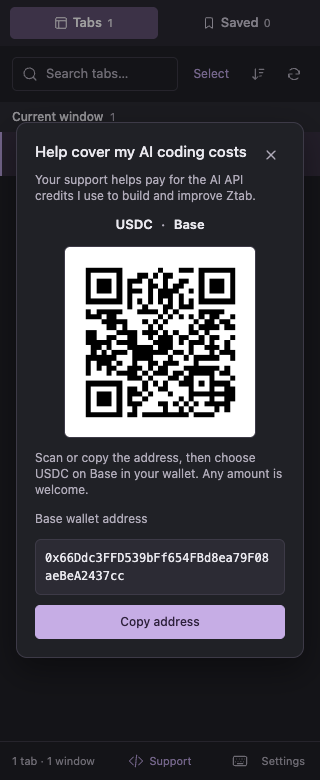
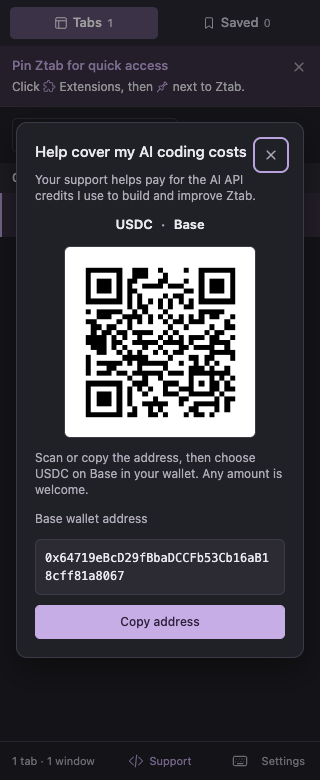
(fix): (Update the support recipient and regenerate its bundled QR code so displayed, copied, and scanned addresses stay consistent)

diff --git a/src/shared/support.js b/src/shared/support.js
@@ -1,2 +1,2 @@
 // Regenerate the bundled QR with `pnpm assets:support` when this address changes.
-export const SUPPORT_WALLET_ADDRESS = "0x66Ddc3FFD539bFf654FBd8ea79F08aeBeA2437cc";
+export const SUPPORT_WALLET_ADDRESS = "0x64719eBcD29fBbaDCCFb53Cb16aB18cff81a8067";
